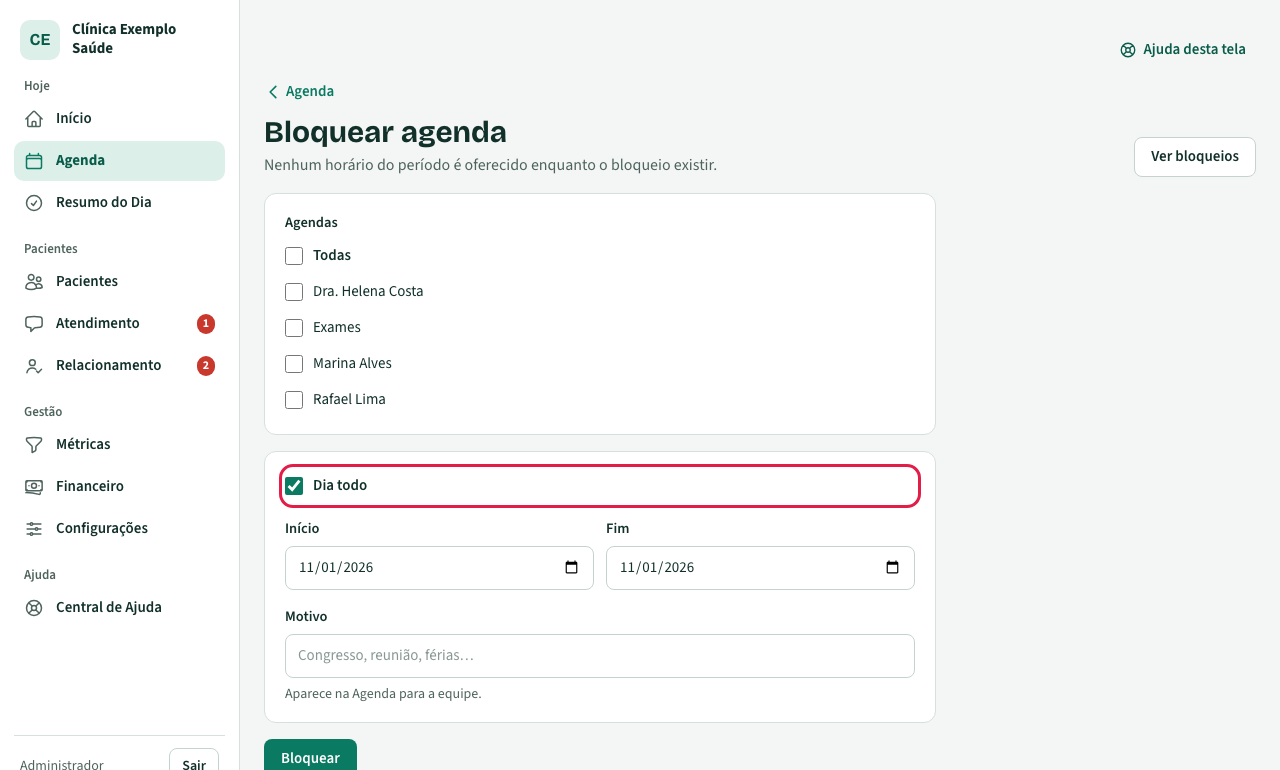
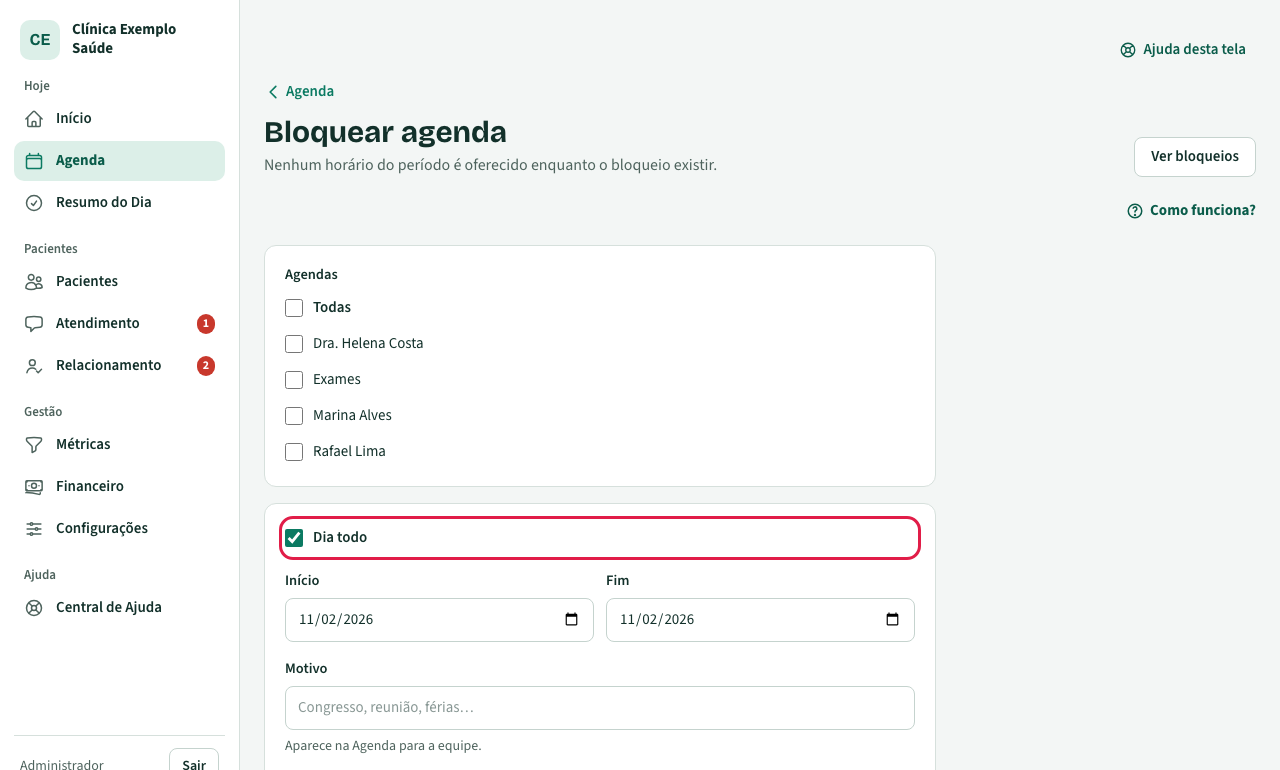
Central de Ajuda: recaptura a tela Agenda › Bloquear

Changed region(s): [[0.1875, 0.2805, 0.7188, 1.0], [0.875, 0.2494, 0.9688, 0.2805], [0.6875, 0.7792, 0.7188, 0.8416]]

diff --git a/docs/capturas-pendentes.md b/docs/capturas-pendentes.md
@@ -9,4 +9,4 @@ a captura e o motivo, avisar o cliente no fim da etapa e esperar a autorização
 
 ## Pendentes
 
-- `bloquear` — tela Agenda › Bloquear ganhou "Como funciona?", a opção "Recesso da clínica" (mensagem e prévia) e as perguntas do recesso (01/11/2026)
+(nenhuma)
